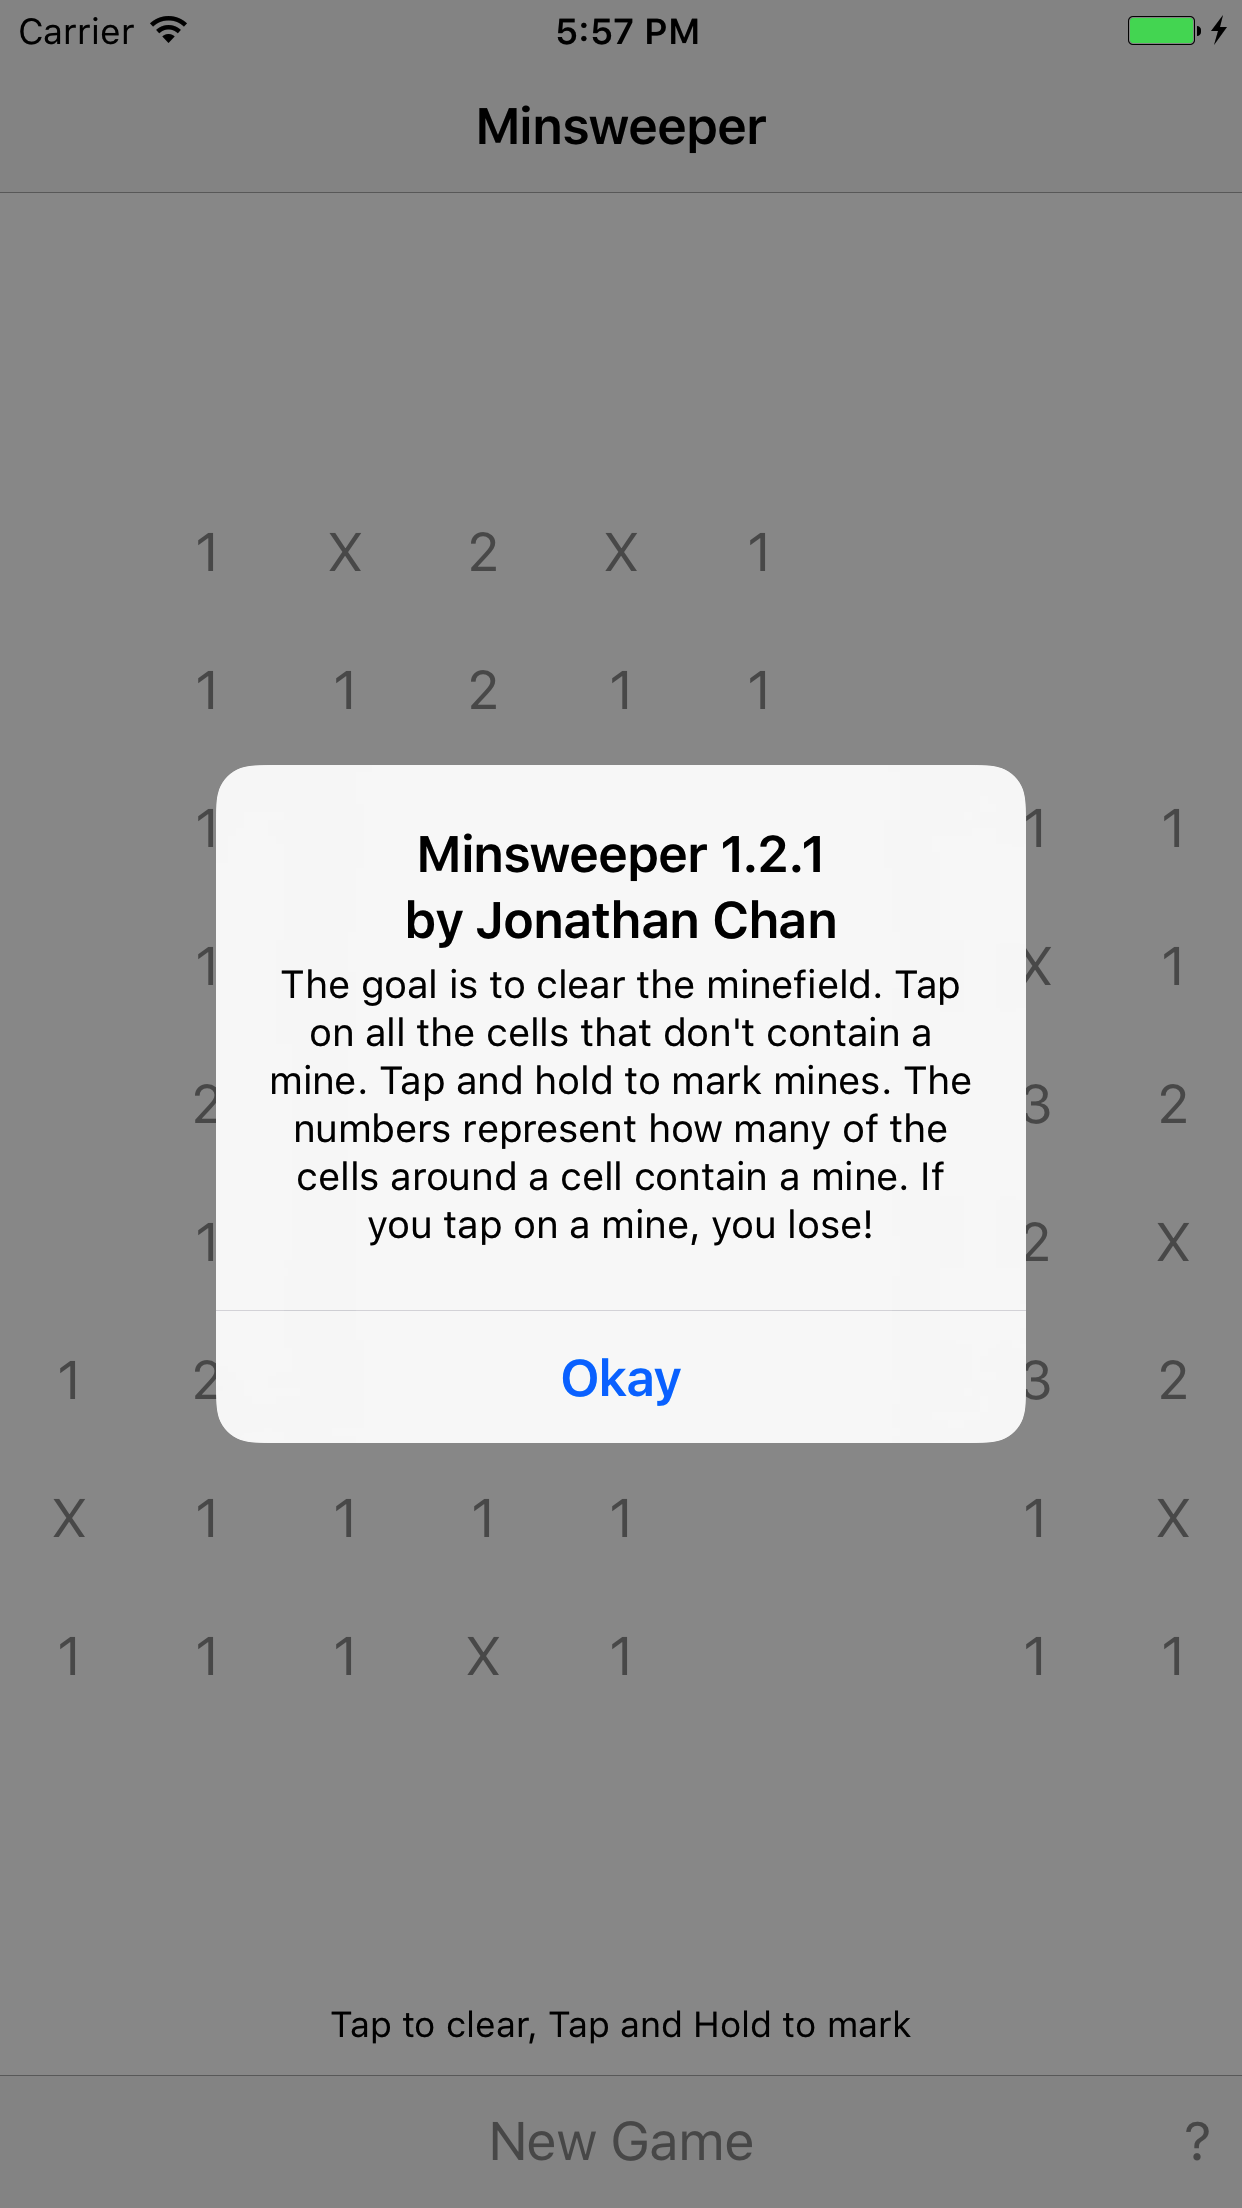
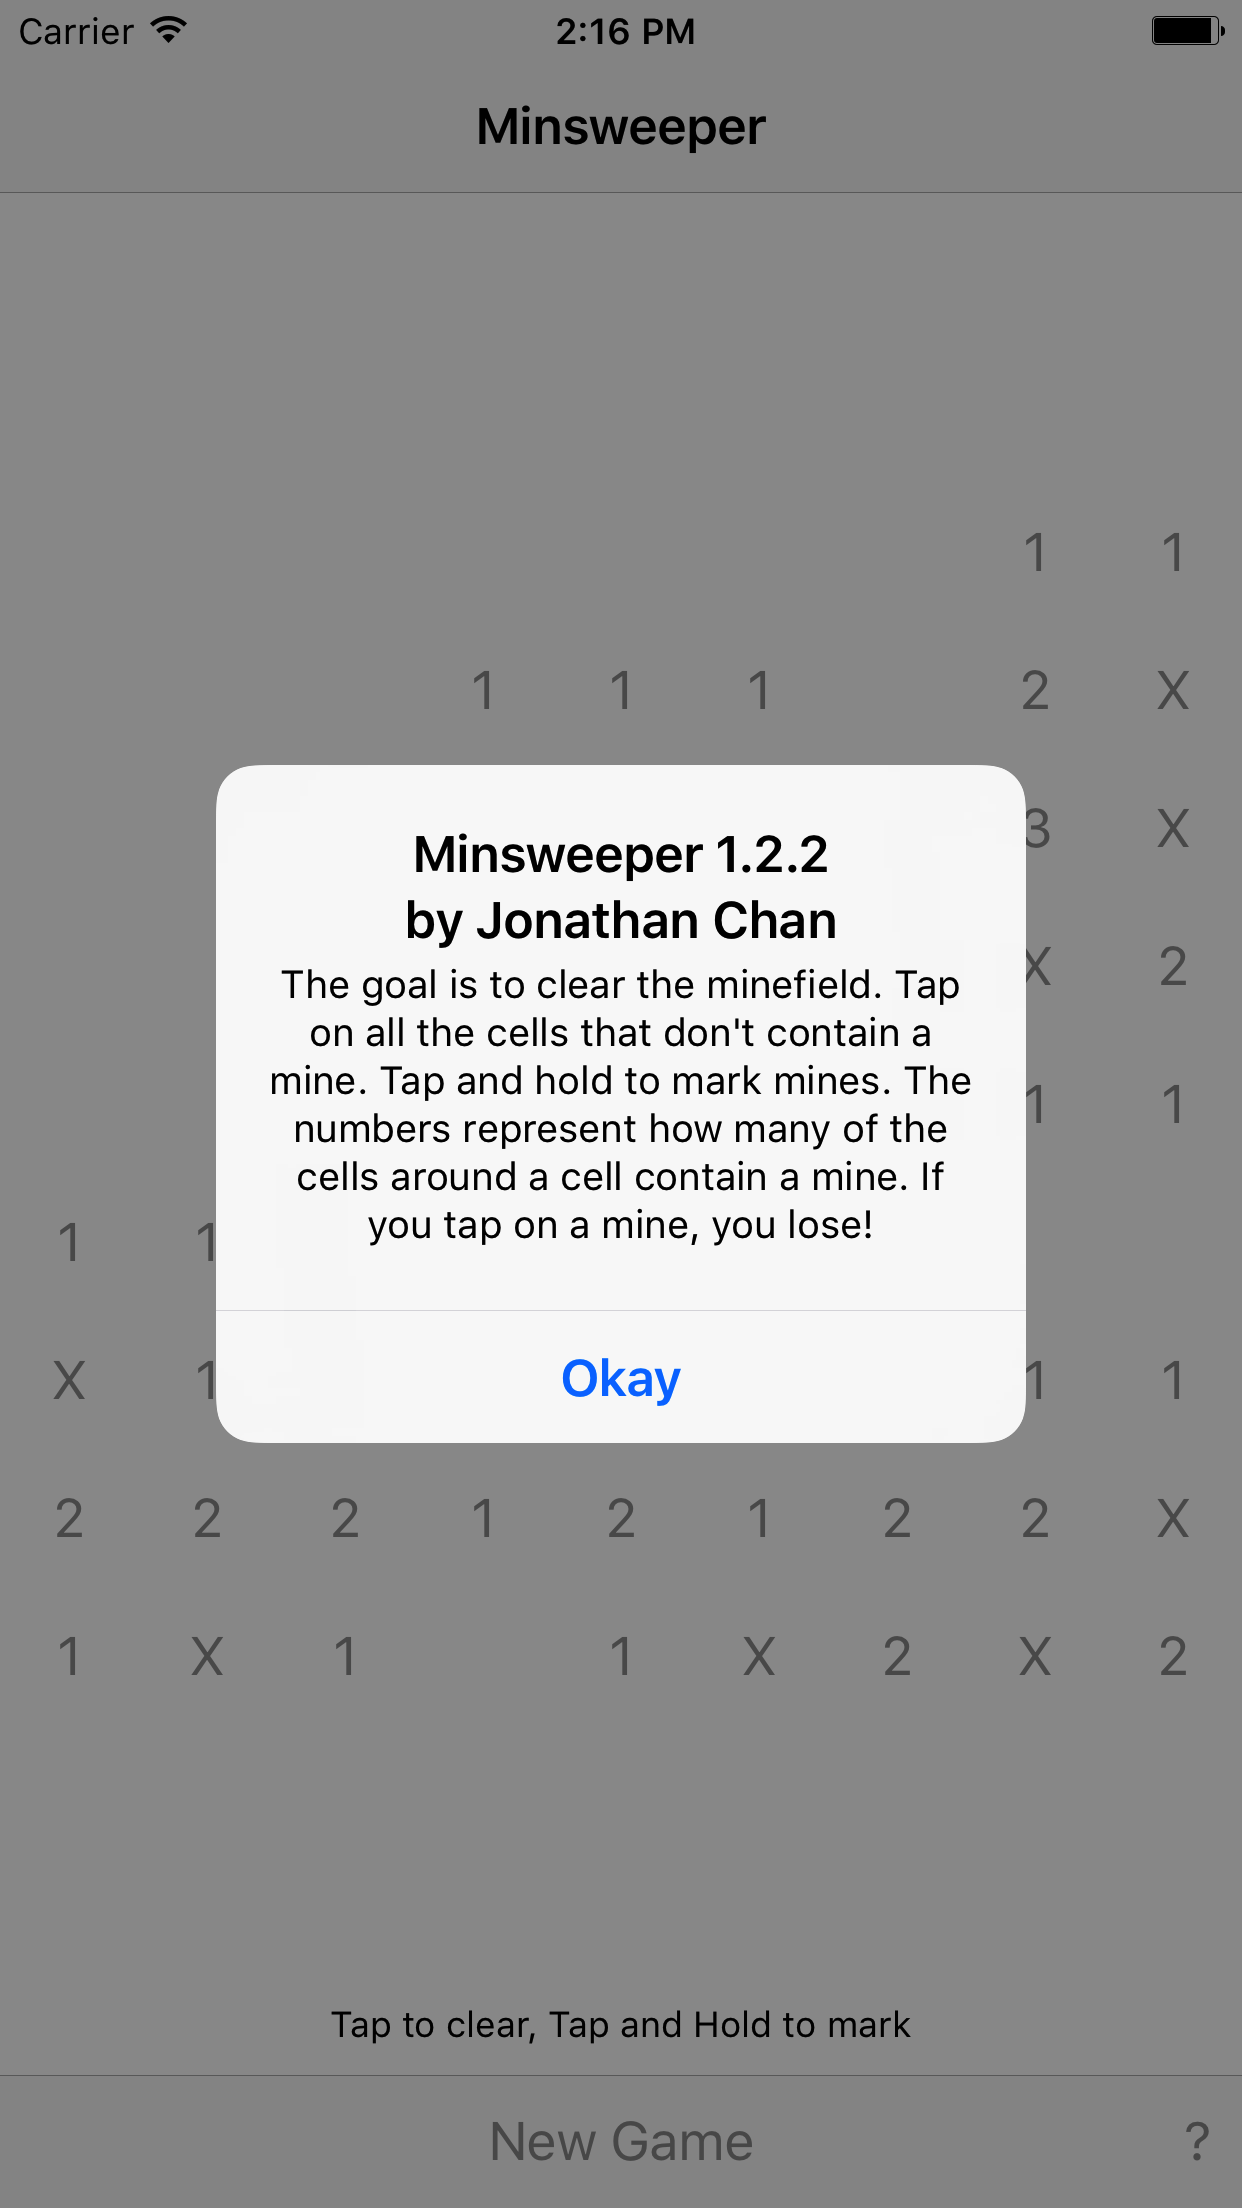
Prepare 1.2.2

Changed region(s): [[0.3366, 0.375, 0.6731, 0.4062], [0.4589, 0.0, 0.5813, 0.0312], [0.8873, 0.0, 0.9791, 0.0312]]

diff --git a/minsweeper/ViewController.swift b/minsweeper/ViewController.swift
@@ -92,6 +92,7 @@ class ViewController: UIViewController {
         self.navigationController!.toolbar.addSubview(self.resetButton)
         self.navigationController!.toolbar.addConstraints([NSLayoutConstraint(item: self.resetButton, attribute: .centerY, relatedBy: .equal, toItem: self.navigationController!.toolbar, attribute: .centerY, multiplier: 1, constant: 0), NSLayoutConstraint(item: self.resetButton, attribute: .centerX, relatedBy: .equal, toItem: self.navigationController!.toolbar, attribute: .centerX, multiplier: 1, constant: 0)])
         self.resetButton.addTarget(self, action: #selector(initializeGame), for: .touchUpInside)
+        self.resetButton.setTitle("New Game", for: UIControlState())
         self.resetButton.titleLabel!.font = UIFont.systemFont(ofSize: 18)
         
         self.helpButton.translatesAutoresizingMaskIntoConstraints = false
@@ -134,8 +135,12 @@ class ViewController: UIViewController {
                 }
             }
         }
-        DispatchQueue.main.async {
-            self.resetButton.setTitle(MinesweeperGame.currentGame!.isFinished ? "New Game" : "Reset", for: UIControlState())
+    }
+
+    override func viewDidAppear(_ animated: Bool) {
+        super.viewDidAppear(animated)
+        if let currentGame = MinesweeperGame.currentGame, currentGame.isFinished {
+            self.showAlert(won: currentGame.won, formattedDuration: currentGame.formattedDuration())
         }
     }
 
@@ -190,7 +195,6 @@ class ViewController: UIViewController {
                 }
                 MinesweeperGame.currentGame!.isFinished = true
                 DispatchQueue.main.async {
-                    self.resetButton.setTitle("New Game", for: UIControlState())
                     AudioServicesPlaySystemSound(kSystemSoundID_Vibrate)
                 }
             } else {
@@ -235,9 +239,6 @@ class ViewController: UIViewController {
                 MinesweeperGame.currentGame!.won = true
                 MinesweeperGame.currentGame!.endDate = Date()
                 self.showAlert(won: true, formattedDuration: MinesweeperGame.currentGame!.formattedDuration())
-                DispatchQueue.main.async {
-                    self.resetButton.setTitle("New Game", for: UIControlState())
-                }
                 for i in 0..<MinesweeperGame.size {
                     for j in 0..<MinesweeperGame.size {
                         if MinesweeperGame.currentGame!.hasMine(row: i, column: j)! && !MinesweeperGame.currentGame!.markedCells[i][j] {
@@ -286,8 +287,13 @@ class ViewController: UIViewController {
             let j = button.tag % MinesweeperGame.size
             let isMarked = MinesweeperGame.currentGame!.markedCells[i][j]
             let isRevealed = MinesweeperGame.currentGame!.revealedCells[i][j]
-            if !MinesweeperGame.currentGame!.revealedCells[i][j] {
-                button.setTitle(isMarked ? "-" : "X", for: UIControlState())
+            if !isRevealed {
+                let title: String
+                if isMarked { title = "-" }
+                else if let detonatedMineTag = MinesweeperGame.currentGame!.detonatedMineTag, detonatedMineTag == button.tag {
+                    title = "!!"
+                } else { title = "X" }
+                button.setTitle(title, for: UIControlState())
                 MinesweeperGame.currentGame!.markedCells[i][j] = !MinesweeperGame.currentGame!.markedCells[i][j]
             }
 
@@ -307,6 +313,7 @@ class ViewController: UIViewController {
         let j = button.tag % MinesweeperGame.size
         if !MinesweeperGame.currentGame!.revealedCells[i][j] {
             if MinesweeperGame.currentGame!.hasMine(row: i, column: j)! {
+                MinesweeperGame.currentGame!.detonatedMineTag = button.tag
                 DispatchQueue.main.async {
                     button.setTitle("!!", for: UIControlState())
                 }

diff --git a/minsweeper/MinesweeperGame.swift b/minsweeper/MinesweeperGame.swift
@@ -28,6 +28,7 @@ class MinesweeperGame: NSObject, NSCoding {
     var isStarted = false
     var isFinished = false
     var won = false
+    var detonatedMineTag: Int?
     
     fileprivate var mineField: [[Bool]]
     var revealedCells: [[Bool]]
@@ -70,7 +71,7 @@ class MinesweeperGame: NSObject, NSCoding {
         print()
     }
     
-    fileprivate init(isStarted: Bool, isFinished: Bool, mineField: [[Bool]], revealedCells: [[Bool]], markedCells: [[Bool]], timeOffset: TimeInterval) {
+    fileprivate init(isStarted: Bool, isFinished: Bool, mineField: [[Bool]], revealedCells: [[Bool]], markedCells: [[Bool]], detonatedMineTag: Int?, timeOffset: TimeInterval) {
         // `self.numberOfRemainingCells` is left equal to the default `size * size` because if we're initting from here, it's from a previous game and that will be recalculated by the VC.
         self.isStarted = isStarted
         self.isFinished = isFinished
@@ -170,9 +171,11 @@ class MinesweeperGame: NSObject, NSCoding {
         aCoder.encode(self.revealedCells, forKey: "revealedCells")
         aCoder.encode(self.markedCells, forKey: "markedCells")
         aCoder.encode(self.timeOffset, forKey: "timeOffset")
+        aCoder.encode(detonatedMineTag, forKey: "detonatedMineTag")
     }
     
     required convenience init?(coder aDecoder: NSCoder) {
+        let detonatedMineTag = aDecoder.decodeObject(forKey: "detonatedMineTag") as? Int
         guard let mineField = aDecoder.decodeObject(forKey: "mineField") as? [[Bool]],
             let revealedCells = aDecoder.decodeObject(forKey: "revealedCells") as? [[Bool]],
             let markedCells = aDecoder.decodeObject(forKey: "markedCells") as? [[Bool]]
@@ -183,6 +186,7 @@ class MinesweeperGame: NSObject, NSCoding {
             mineField: mineField,
             revealedCells: revealedCells,
             markedCells: markedCells,
+            detonatedMineTag: detonatedMineTag,
             timeOffset: aDecoder.decodeDouble(forKey: "timeOffset")
         )
     }
